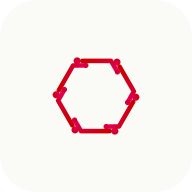
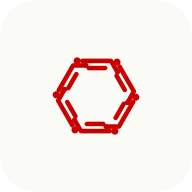
feat(brand): primary mark variant → MONO / DEEP RED (founder decision)
The gradient becomes a special-surfaces variant; the everyday logo is
solid ACCA red #C80000:

• brand.tsx — ScholifyMark/ScholifyLockup default variant "gradient"
  → "red"; wordmark i-dot node now solid #C80000 to match.
• public/logo.svg v1.1 — solid deep red (gradient def removed);
  favicon.png + icon-192/512.png regenerated.
• docs/03-design-bible.md §0.1 updated: red is PRIMARY, gradient
  demoted to special surfaces.

All existing usages (landing nav, app sidebar, pricing bar, auth
panel, onboarding welcome) inherit via the default — no call sites
changed.

Changed region(s): [[0.2812, 0.2812, 0.7188, 0.7188]]

diff --git a/src/components/brand.tsx b/src/components/brand.tsx
@@ -20,7 +20,9 @@ const VARIANT_COLOR: Record<Exclude<MarkVariant, "gradient">, string> = {
 
 export function ScholifyMark({
   size = 24,
-  variant = "gradient",
+  // MONO / DEEP RED is the primary variant (founder decision 2026-07-09);
+  // gradient remains available for special surfaces.
+  variant = "red",
   style,
 }: {
   size?: number
@@ -93,7 +95,7 @@ export function ScholifyWordmark({
             width: "0.16em",
             height: "0.16em",
             borderRadius: "50%",
-            background: "linear-gradient(135deg,#C80000,#E50068)",
+            background: "#C80000",
           }}
         />
       </span>
@@ -105,7 +107,7 @@ export function ScholifyWordmark({
 /** The standard lockup: mark + wordmark, spacing keyed to the mark size. */
 export function ScholifyLockup({
   size = 26,
-  variant = "gradient",
+  variant = "red",
   color = "#14141A",
   wordmark = true,
   style,

diff --git a/docs/03-design-bible.md b/docs/03-design-bible.md
@@ -12,9 +12,9 @@ Source: the approved brand board (`Desktop\Scholify\Scholify logo design brief`)
 
 ### 0.1 The mark — hexagonal circuit of waypoints
 
-Six rotational circuit traces close into a hexagon — each terminal a node, each turn a waypoint on the journey to graduation. It is the Loop, drawn. Geometry (viewBox `0 0 200 200`): **one arm** — node `circle(71,46,r5.5)`, trace `M79,46 L123,46 L133,63`, inner dash `M89,57 L114,57`, terminal `circle(133,63,r4)` — stroked at **7 (3.5% of width), round caps**, rotated **6 × 60°** around (100,100). Fill/stroke gradient **Deep Red `#C80000` → Magenta `#E50068`** at 45°.
+Six rotational circuit traces close into a hexagon — each terminal a node, each turn a waypoint on the journey to graduation. It is the Loop, drawn. Geometry (viewBox `0 0 200 200`): **one arm** — node `circle(71,46,r5.5)`, trace `M79,46 L123,46 L133,63`, inner dash `M89,57 L114,57`, terminal `circle(133,63,r4)` — stroked at **7 (3.5% of width), round caps**, rotated **6 × 60°** around (100,100). Fill/stroke **MONO / DEEP RED `#C80000`**.
 
-**Variants** (all in `ScholifyMark`'s `variant` prop): `gradient` (primary), `red` (mono deep red), `ink` (`#14141A`), `white` (knockout on dark). **Minimums:** 48px print · 24px UI · **16px absolute floor**. **Clear space:** one node diameter on every side.
+**Variants** (all in `ScholifyMark`'s `variant` prop): **`red` (MONO / DEEP RED) — the PRIMARY variant, founder decision 2026-07-09; the component default and `public/logo.svg`**; `gradient` (Deep Red → Magenta `#E50068`, special surfaces only); `ink` (`#14141A`); `white` (knockout on dark). The wordmark's i-dot node is solid `#C80000` to match. **Minimums:** 48px print · 24px UI · **16px absolute floor**. **Clear space:** one node diameter on every side.
 
 ### 0.2 The wordmark
 